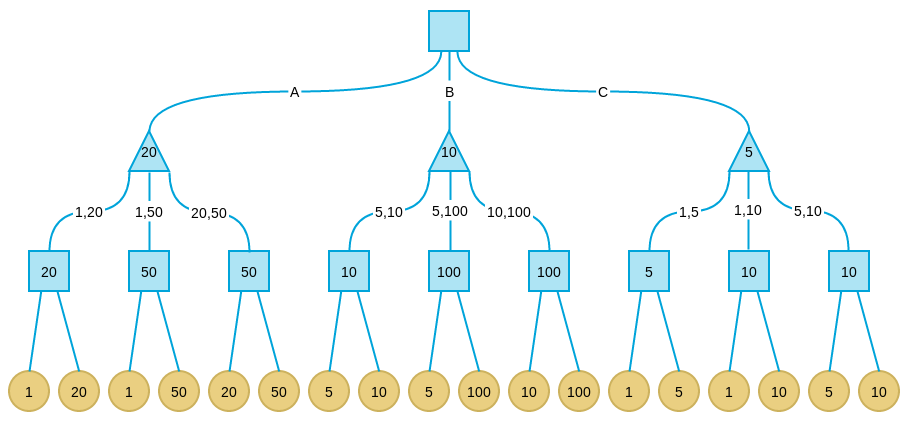
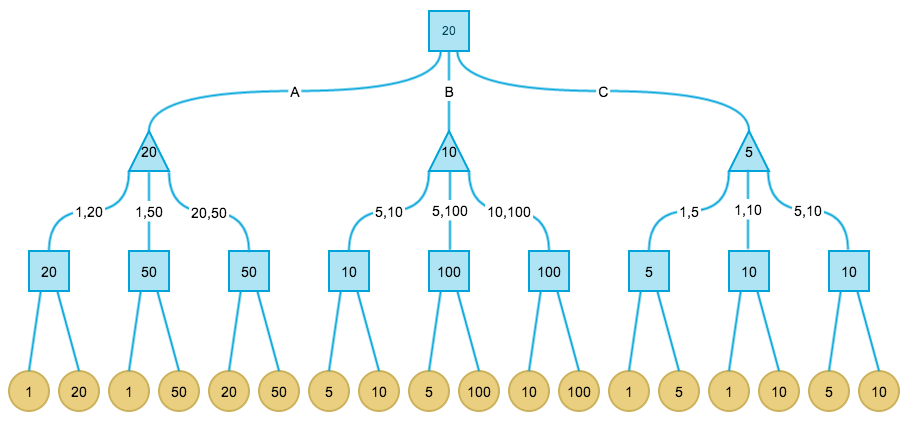
写文章

diff --git a/articles/2048-ai-analysis.md b/articles/2048-ai-analysis.md
@@ -1,10 +1,10 @@
-针对目前火爆的[2048](http://gabrielecirulli.github.io/2048/)游戏，[有人实现了一个AI程序](http://ov3y.github.io/2048-AI/)，可以以较大概率（高于90%）赢得游戏，并且[作者在stackoverflow上简要介绍了AI的算法框架和实现思路](http://stackoverflow.com/questions/22342854/what-is-the-optimal-algorithm-for-the-game-2048)。但是这个回答主要集中在启发函数的选取上，对AI用到的核心算法并没有仔细说明。这篇文章将主要分为两个部分，第一部分介绍其中用到的基础算法，即minimax和alpha-beta剪枝；第二部分分析作者具体的实现。
+针对目前火爆的[2048](http://gabrielecirulli.github.io/2048/)游戏，[有人实现了一个AI程序](http://ov3y.github.io/2048-AI/)，可以以较大概率（高于90%）赢得游戏，并且[作者在stackoverflow上简要介绍了AI的算法框架和实现思路](http://stackoverflow.com/questions/22342854/what-is-the-optimal-algorithm-for-the-game-2048)。但是这个回答主要集中在启发函数的选取上，对AI用到的核心算法并没有仔细说明。这篇文章将主要分为两个部分，第一部分介绍其中用到的基础算法，即Minimax和Alpha-beta剪枝；第二部分分析作者具体的实现。
 
 # 基础算法
-2048本质上可以抽象成信息对称双人对弈模型（玩家向四个方向中的一个移动，然后计算机在某个空格中填入2或4）。这里“信息对称”是指在任一时刻对弈双方对格局的信息完全一致，移动策略仅依赖对接下来格局的推理。作者使用的核心算法为对弈模型中常用的带alpha-beta剪枝的minimax。这个算法也常被用于如国际象棋等信息对称对弈AI中。
+2048本质上可以抽象成信息对称双人对弈模型（玩家向四个方向中的一个移动，然后计算机在某个空格中填入2或4）。这里“信息对称”是指在任一时刻对弈双方对格局的信息完全一致，移动策略仅依赖对接下来格局的推理。作者使用的核心算法为对弈模型中常用的带Alpha-beta剪枝的Minimax。这个算法也常被用于如国际象棋等信息对称对弈AI中。
 
 ## Minimax
-下面先介绍不带剪枝的minimax。首先本文将通过一个简单的例子说明minimax算法的思路和决策方式。
+下面先介绍不带剪枝的Minimax。首先本文将通过一个简单的例子说明Minimax算法的思路和决策方式。
 
 ### 问题
 现在考虑这样一个游戏：有三个盘子A、B和C，每个盘子分别放有三张纸币。A放的是1、20、50；B放的是5、10、100；C放的是1、5、20。单位均为“元”。有甲、乙两人，两人均对三个盘子和上面放置的纸币有可以任意查看。游戏分三步：
@@ -15,13 +15,13 @@
 
 其中甲的目标是最后拿到的纸币面值尽量大，乙的目标是让甲最后拿到的纸币面值尽量小。
 
-下面用minimax算法解决这个问题。
+下面用Minimax算法解决这个问题。
 
 ### 基本思路
 一般解决博弈类问题的自然想法是将格局组织成一棵树，树的每一个节点表示一种格局，而父子关系表示由父格局经过一步可以到达子格局。Minimax也不例外，它通过对以当前格局为根的格局树搜索来确定下一步的选择。而一切格局树搜索算法的核心都是对每个格局价值的评价。Minimax算法基于以下朴素思想确定格局价值：
 
 + Minimax是一种悲观算法，即假设对手每一步都会将我方引入从当前看理论上价值最小的格局方向，即对手具有完美决策能力。因此我方的策略应该是选择那些对方所能达到的让我方最差情况中最好的，也就是让对方在完美决策下所对我造成的损失最小。
-+ Minimax不找理论最优解，因为理论最优解往往依赖于对手是否足够愚蠢，minimax中我方完全掌握主动，如果对方每一步决策都是完美的，则我方可以达到预计的最小损失格局，如果对方没有走出完美决策，则我方可能达到比预计的最悲观情况更好的结局。总之我方就是要在最坏情况中选择最好的。
++ Minimax不找理论最优解，因为理论最优解往往依赖于对手是否足够愚蠢，Minimax中我方完全掌握主动，如果对方每一步决策都是完美的，则我方可以达到预计的最小损失格局，如果对方没有走出完美决策，则我方可能达到比预计的最悲观情况更好的结局。总之我方就是要在最坏情况中选择最好的。
 
 上面的表述有些抽象，下面看具体示例。
 
@@ -30,4 +30,37 @@
 
 <p class="picture"><img alt="" src="/uploads/pictures/2048-ai-analysis/01.png"/></p>
 
-注意，由于示例问题格局数非常少，我们可以给出完整的格局树。这种情况下我可以找到minimax算法的全局最优解（注意和理论最优解区分，理论最优解假设对手每一步都愚蠢的走入我方价值最大的结局，而minimax的全局最优解假设对手每一步都是完美的，而我方找到的是全局最坏情况中最好的）。而真实情况中，格局树非常庞大，即使是计算机也不可能给出搜素整个树，因此我们往往只搜索一定深度，这时只能找到局部最优解。
+注意，由于示例问题格局数非常少，我们可以给出完整的格局树。这种情况下我可以找到Minimax算法的全局最优解。而真实情况中，格局树非常庞大，即使是计算机也不可能给出完整的树，因此我们往往只搜索一定深度，这时只能找到局部最优解。
+
+我们从甲的角度考虑。其中正方形节点表示轮到我方（甲），而三角形表示轮到对方（乙）。经过三轮对弈后（我方-对方-我方），将进入终局。黄色叶结点表示所有可能的结局。从甲方看，由于最终的收益可以通过纸币的面值评价，我们自然可以用结局中甲方拿到的纸币面值表示终格局的价值。
+
+下面考虑倒数第二层节点，在这些节点上，轮到我方选择，所以我们应该引入可选择的最大价值格局，因此每个节点的价值为其子节点的最大值：
+
+<p class="picture"><img alt="" src="/uploads/pictures/2048-ai-analysis/02.png"/></p>
+
+这些轮到我方的节点叫做max节点，max节点的值是其子节点最大值。
+
+倒数第三层轮到对方选择，假设对方会尽力将局势引入让我方价值最小的格局，因此这些节点的价值取决于子节点的最小值。这些轮到对方的节点叫做min节点。
+
+最后，根节点是max节点，因此价值取决于叶子节点的最大值。最终完整赋值的格局树如下：
+
+<p class="picture"><img alt="" src="/uploads/pictures/2048-ai-analysis/03.png"/></p>
+
+总结一下Minimax算法的步骤：
+
+1. 首先确定最大搜索深度D，D可能达到终局，也可能是一个中间格局。
+2. 在最大深度为D的格局树叶子节点上，使用预定义的价值评价函数对叶子节点价值进行评价。
+3. 自底向上为非叶子节点赋值。其中max节点取子节点最大值，min节点取子节点最小值。
+4. 每次轮到我方时（此时必处在格局树的某个max节点），选择价值等于此max节点价值的那个子节点路径。
+
+在上面的例子中，根节点的价值为20，表示如果对方每一步都完美决策，则我方按照上述算法可最终拿到20元，这是我方在Minimax算法下最好的决策。格局转换路径如下图红色路径所示：
+
+<p class="picture"><img alt="" src="/uploads/pictures/2048-ai-analysis/04.png"/></p>
+
+对于真实问题中的Minimax，再次强调几点：
+
++ 真实问题一般无法构造出完整的格局树，所以需要确定一个最大深度D，每次最多从当前格局向下计算D层。
++ 因为上述原因，Minimax一般是寻找一个局部最优解而不是全局最优解，搜索深度越大越可能找到更好的解，但计算耗时会呈指数级膨胀。
++ 也是因为无法一次构造出完整的格局树，所以真实问题中Minimax一般是边对弈边计算局部格局树，而不是只计算一次，但已计算的中间结果可以缓存。
+
+## Alpha-beta剪枝
